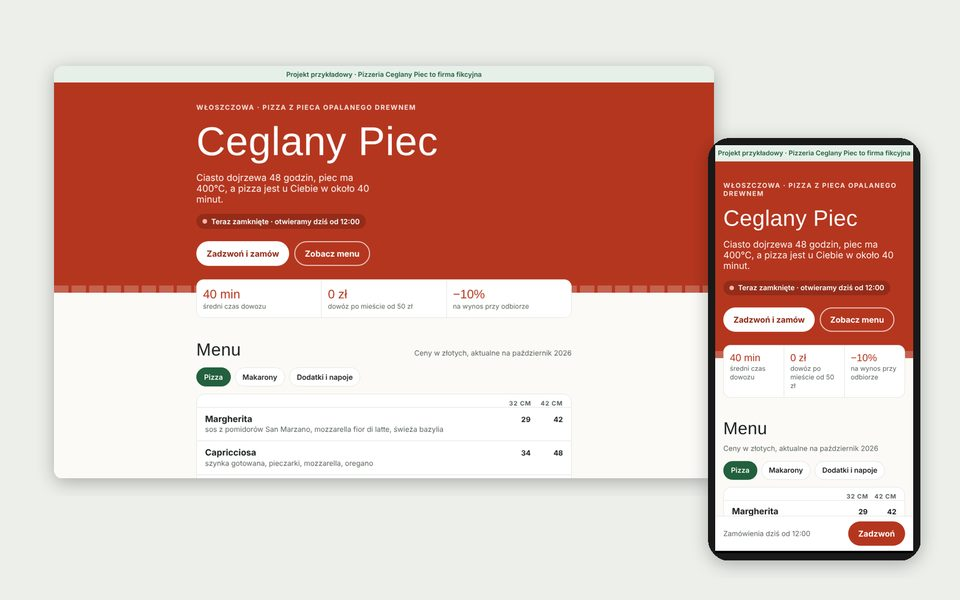
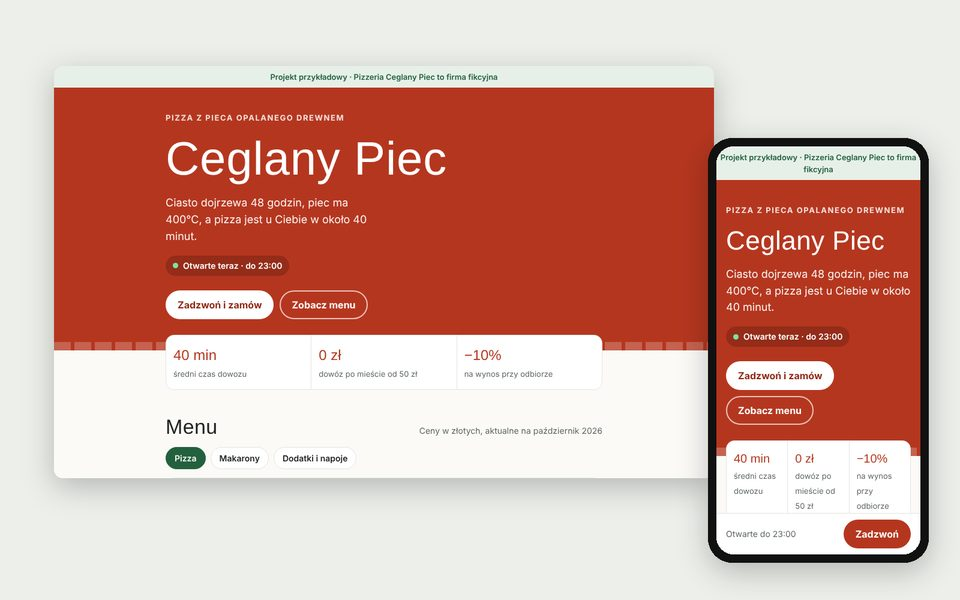
Pizzeria: marginesy strony i nowy zrzut ekranu

Changed region(s): [[0.0312, 0.12, 0.9688, 0.96], [0.1562, 0.66, 0.625, 0.78]]

diff --git a/pizzeria.html b/pizzeria.html
@@ -36,7 +36,7 @@
   --basil: #7cc39a; --basil-soft: #1f3327; --flour: #222823; color-scheme: dark;
 }
 * { box-sizing: border-box; }
-body { background: var(--bg); color: var(--ink); font-family: var(--font-body); font-size: 16px; line-height: 1.55; }
+body { margin: 0; background: var(--bg); color: var(--ink); font-family: var(--font-body); font-size: 16px; line-height: 1.55; }
 .wrap { max-width: 760px; margin: 0 auto; padding-left: max(16px, env(safe-area-inset-left, 0px)); padding-right: max(16px, env(safe-area-inset-right, 0px)); }
 h1, h2, h3 { font-family: var(--font-display); font-weight: 400; line-height: 1.05; text-wrap: balance; margin: 0; letter-spacing: 0.01em; }
 a { color: inherit; }
